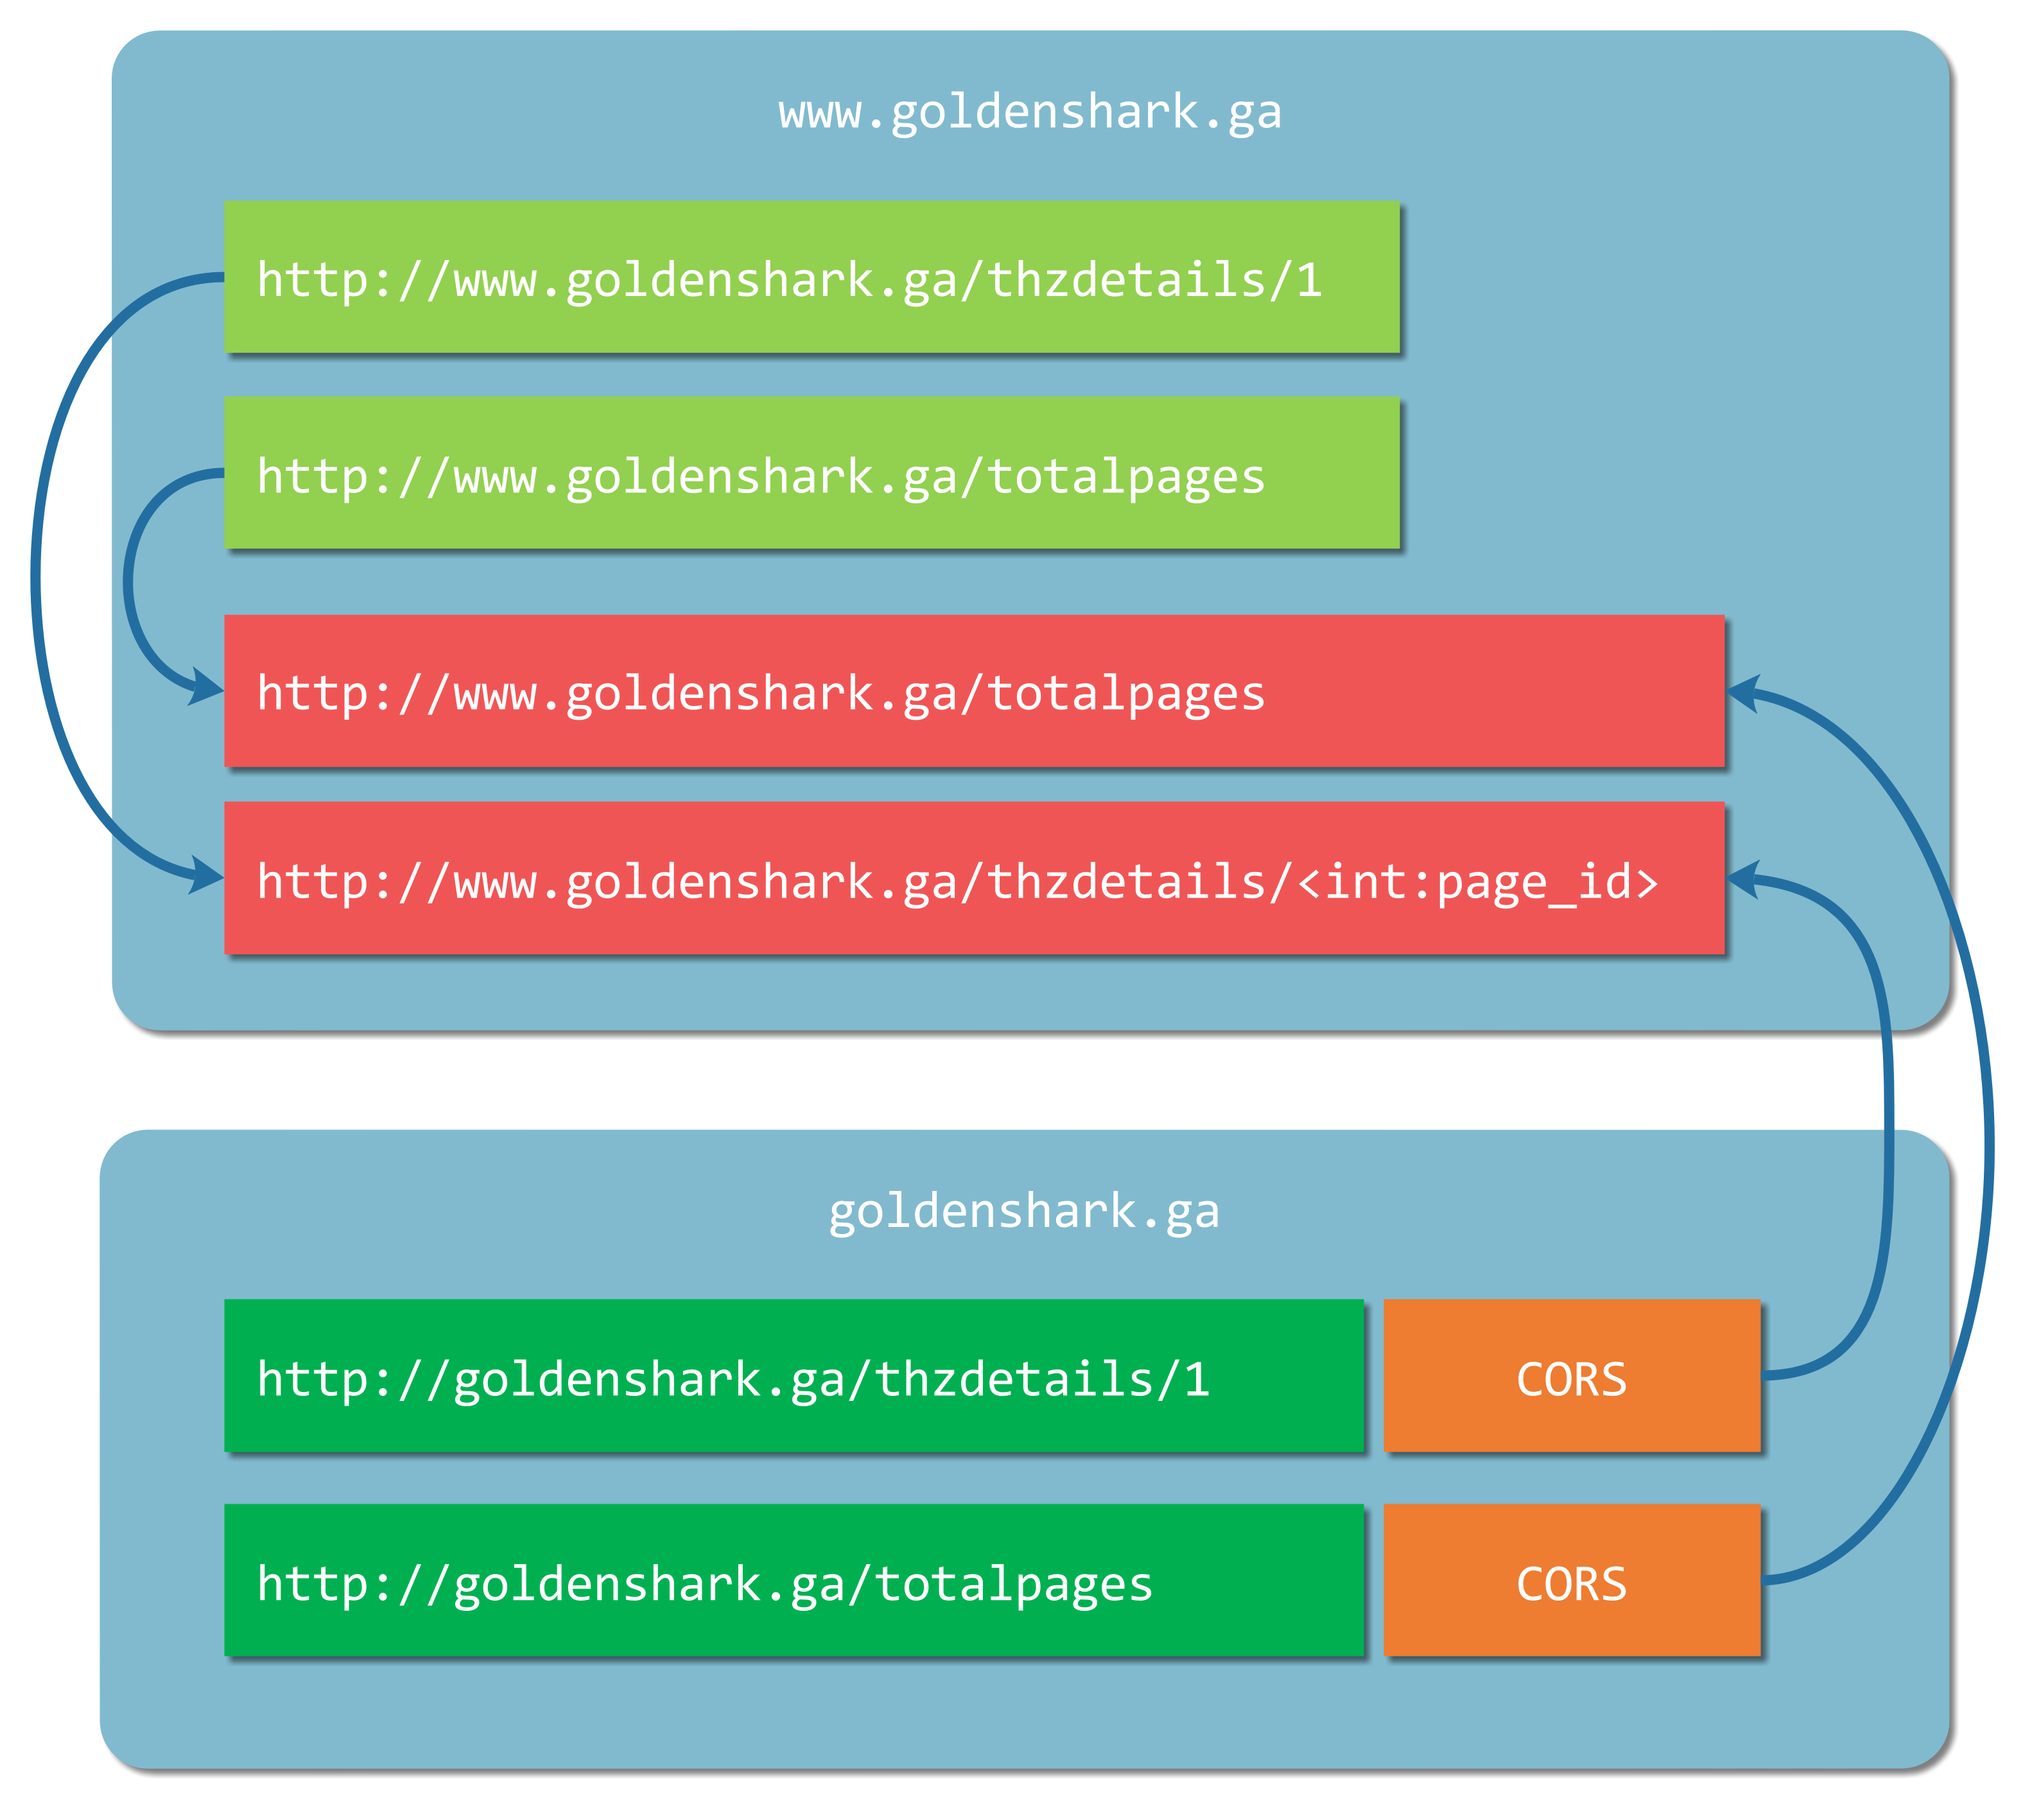
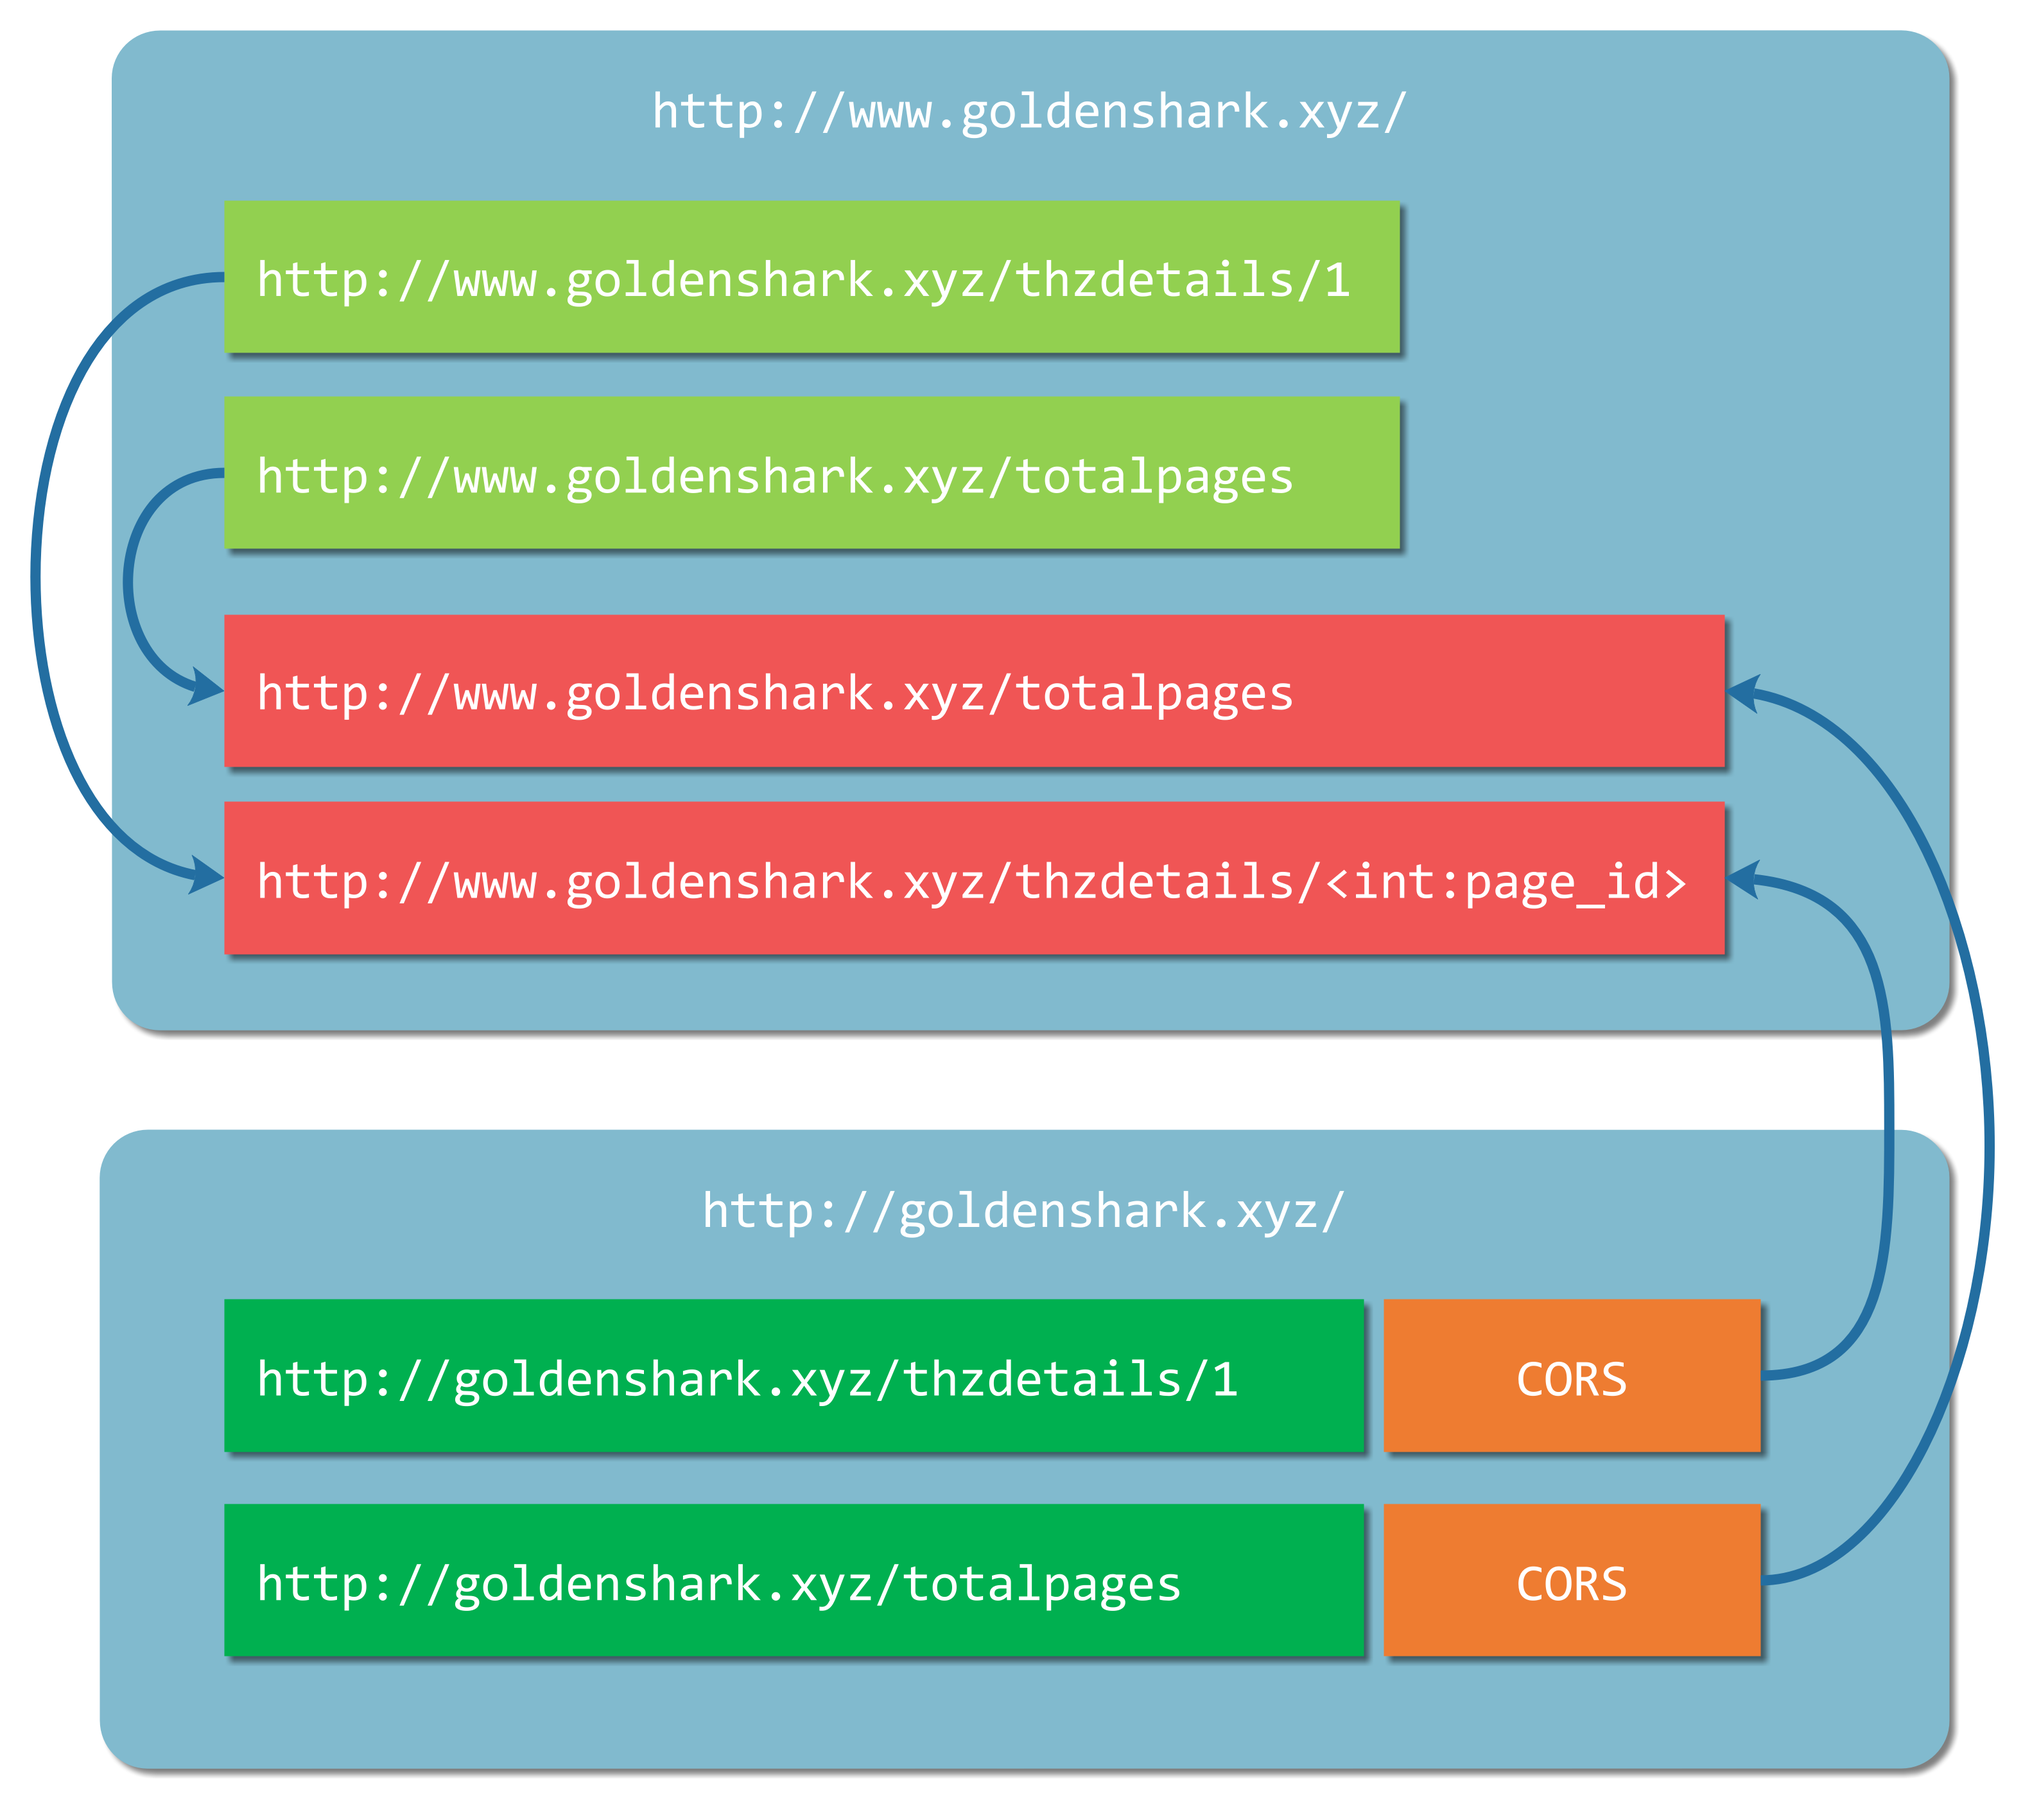
Add CORS-SSL PNG
Add CORS-SSL png.

diff --git a/_posts/2018-04-08-flask-cors-best-practice.md b/_posts/2018-04-08-flask-cors-best-practice.md
@@ -18,7 +18,12 @@ def cors_response(orig_res):
 ```
 
 ## Architecture ##  
+
+### None-SSL
 [![]({{site.baseurl}}/assets/img/CORS.png)]({{site.baseurl}}/assets/img/CORS.png)  
+
+### SSL
+[![]({{site.baseurl}}/assets/img/CORS-SSL.png)]({{site.baseurl}}/assets/img/CORS-SSL.png)  
 
 
 Thanks!  
